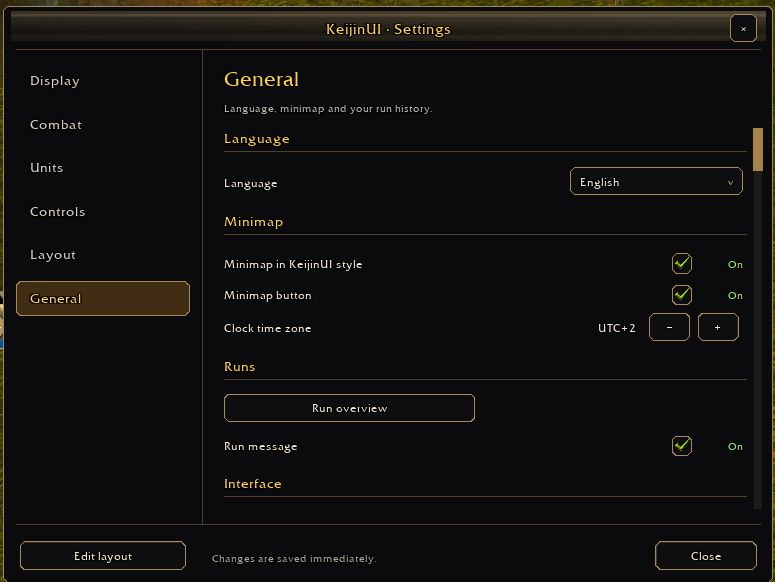
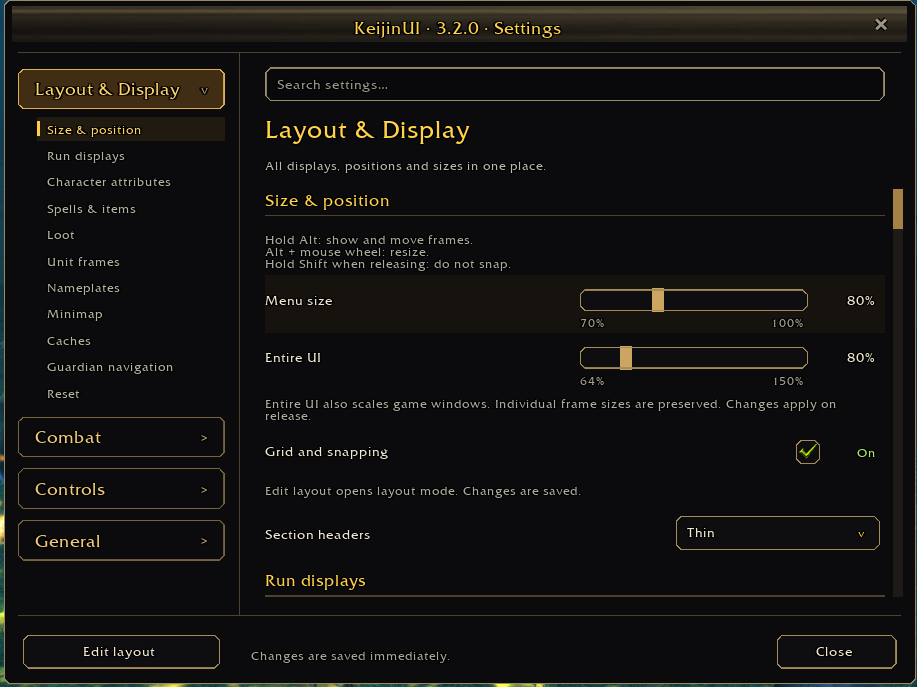
README: features and screenshots for 3.2
New in-game screenshots in English (overview, layout mode, settings with
search, minimap with guardian skulls) and updated feature lists in
English and German.

diff --git a/README.md b/README.md
@@ -13,24 +13,20 @@ English first, [Deutsch below](#deutsch).
 
 KeijinUI replaces the stock Azeroth Survivors HUD with one interface in a single visual style:
 
-* Run overview with zone, run clock, progress and boss schedule (boss time and run time), below it the guardian lairs of the map (asleep, fighting, back in, due)
-* Run statistics: elites, guardians and bosses defeated, damage taken, effective healing, gold earned; a counter row with the gold still missing for the next cache (green, yellow, red)
-* Pace: kill progress and recent DPS compared with your earlier matching runs at the same run time (green, yellow, red; on by default, switchable)
-* Damage meter with total and DPS per ability, list of the biggest critical hits
-* Player and target frames with round portrait and joined health bar, square minimap, action bar with ranks and cooldowns
-* Build overview with spells, jewelry and a build tip
-* Encounter bars for bosses, elites and rares, modern nameplates, scrolling combat text with spell icons
-* Loot notice, achievement popup and one chat window in the same frame style
-* Settings window with a side navigation (Display, Combat, Units, Controls, Layout, General), checkboxes, a live combat text preview, layout mode with grid and snapping, a ready made default layout
-* Optional cursor ring and optional character attributes (both off by default)
-* Class resources: rogue combo points, warlock soul shards and warrior rage; attached to the player or movable with Alt
-* Caches on the minimap with a pointer to the nearest one, optional screen arrow
-* Run history per zone, class and race (`/kui runs`): runs, wins, last time, fastest win and longest survival, plus a start message in chat for every run; a win is saved as a fixed snapshot the moment it happens, also when you leave straight to the menu
-* Minimap button **Kui**: left click opens the settings, right click the run history, drag it along the minimap edge
-* Original chamfered frames with warm bronze unit borders
+* **Run overview**: zone, run clock, boss schedule with boss time and run time, pace against your best matching runs, guardian lairs with status and small direction arrows
+* **Minimap** (game 0.102 or newer): a skull for every guardian lair, gold while a guardian holds it, orange with ! in combat, grey with x when empty; the game's red flag is hidden while the skulls are on. Caches with edge arrows, clock with time zone
+* **Run statistics** and a **meter** with Run, Boss and Healing tabs: totals and DPS/HPS per source, biggest critical hits, damage taken by source
+* **Character values**: up to 29 stats, your choice and order
+* **Player and target frames** with round portrait, debuffs and an optional 30 percent marker, action bar with ranks and cooldowns, build overview with spells, jewelry cooldowns and a build tip
+* **Kills, gold and caches** with lives and rerolls, XP bar with XP per minute and time to the next level, stored level ups button
+* Encounter bars with boss and guardian debuffs, modern nameplates, calmer floating damage numbers, optional healing and incoming damage text
+* Loot list in four modes with new and collected marks, achievement popup, one chat window with a copy button
+* **Settings** in four categories with a live search in English and German, whatever your UI language
+* **Layout mode**: hold Alt, drag and resize with the mouse wheel; windows snap to the grid, to each other and to the screen edges, and windows docked above the chat grow upward
+* Run history per zone, class and race (`/kui runs`), searchable jewelry diary, optional modules you can switch off completely
 * English and German interface
 
-![Layout mode with grid](screenshots/layout-mode.jpg)
+![Layout mode with grid, labels and snapping](screenshots/layout-mode.jpg)
 
 ### Installation
 
@@ -41,15 +37,15 @@ KeijinUI replaces the stock Azeroth Survivors HUD with one interface in a single
 
 ### First steps
 
-* `/kui` opens the settings window.
-* Hold **Alt** to see all frames, drag them with the left mouse button, Alt and mouse wheel changes the size.
+* `/kui` or a left click on the **Kui** minimap button opens the settings; type into the search field to find any option.
+* Hold **Alt** to see all frames, drag them with the left mouse button, Alt and mouse wheel changes the size. Shift while releasing places a frame without snapping.
 * `/kui lang de` switches to German, `/kui lang en` back to English (default).
 * `/kui reset` restores the default layout.
-* The **Kui** button on the minimap opens the settings (left click) and the run history (right click).
+* Right click on the **Kui** button opens the run history. Its position can be chosen under Layout & Display, Minimap.
 
-![Settings window, General page with the run overview](screenshots/settings.png)
+![Settings window with search](screenshots/settings.png)
 
-![Minimap button](screenshots/minimap-button.png)
+![Minimap with guardian skulls, caches and the Kui button](screenshots/minimap-skulls.png)
 
 All commands and details are in [KeijinUI/README.md](KeijinUI/README.md). The full version history is in [CHANGELOG.md](KeijinUI/CHANGELOG.md).
 
@@ -69,21 +65,17 @@ Eine vollständige, einheitliche Oberfläche für **Azeroth Survivors** (WoW 1.1
 
 KeijinUI ersetzt die Standardanzeigen von Azeroth Survivors durch eine Oberfläche in einem Stil:
 
-* Runübersicht mit Zone, Runuhr, Fortschritt und Bossplan (Bosszeit und Runzeit), darunter die Wächterhorte der Karte (schläft, im Kampf, zurück in, fällig)
-* Runstatistiken: Eliten, Wächter und Bosse besiegt, Schaden erlitten, effektive Heilung, Gold verdient; eine Zählerzeile mit dem noch fehlenden Gold für den nächsten Cache (grün, gelb, rot)
-* Pace: Killfortschritt und aktuelle DPS im Vergleich mit deinen früheren passenden Runs zur selben Runzeit (grün, gelb, rot; standardmäßig an, abschaltbar)
-* Schadensanzeige mit Gesamtschaden und DPS je Fähigkeit, Liste der größten kritischen Treffer
-* Spieler und Zielframe mit rundem Porträt und angeschlossenem Lebensbalken, eckige Minimap, Aktionsleiste mit Rängen und Abklingzeiten
-* Buildübersicht mit Zaubern, Schmuck und Buildtipp
-* Begegnungsbalken für Bosse, Eliten und Rares, moderne Namensplaketten, scrollender Kampftext mit Zaubersymbolen
-* Beutemeldung, Erfolgsmeldung und ein Chatfenster im gleichen Rahmenstil
-* Optionsfenster mit Seitennavigation (Anzeige, Kampf, Einheiten, Bedienung, Layout, Allgemein), Checkboxen, Livevorschau des Kampftexts, Layoutmodus mit Raster und Einrasten, fertiges Standardlayout
-* Optionaler Cursorring und optionale Charakterwerte (beide standardmäßig aus)
-* Klassenressourcen: Combopunkte, Seelensplitter und Wut; am Spieler befestigt oder mit Alt frei beweglich
-* Caches auf der Minimap mit Hinweis auf die nächste, optionaler Bildschirmpfeil
-* Rundenübersicht je Zone, Klasse und Volk (`/kui runs`): Runs, Siege, letzte Zeit, schnellster Sieg und längstes Überleben, dazu eine Startmeldung im Chat zu jedem Run; ein Sieg wird sofort als fester Snapshot gesichert, auch wenn du direkt ins Menü gehst
-* Minimapknopf **Kui**: Linksklick öffnet die Optionen, Rechtsklick die Rundenübersicht, am Minimaprand verschiebbar
-* Eigene abgeschrägte Rahmen mit warmen bronzefarbenen Unitkanten
+* **Runübersicht**: Zone, Runuhr, Bossplan mit Bosszeit und Runzeit, Pace im Vergleich mit deinen besten passenden Runs, Wächterhorte mit Status und kleinen Richtungspfeilen
+* **Minimap** (ab Spiel 0.102): ein Totenkopf für jeden Wächterhort, gold bei besetztem Hort, orange mit ! im Kampf, grau mit x bei leerem Hort; die rote Flagge des Spiels ist ausgeblendet, solange die Totenköpfe an sind. Caches mit Randpfeilen, Uhr mit Zeitzone
+* **Runstatistik** und **Meter** mit den Reitern Run, Boss und Heilung: Summen und DPS/HPS je Quelle, größte kritische Treffer, erlittener Schaden nach Quelle
+* **Charakterwerte**: bis zu 29 Werte, Auswahl und Reihenfolge frei
+* **Spieler und Zielframe** mit rundem Porträt, Debuffs und optionaler 30 Prozent Markierung, Aktionsleiste mit Rängen und Abklingzeiten, Buildübersicht mit Zaubern, Schmuckcooldowns und Buildtipp
+* **Kills, Gold und Caches** mit Leben und Rerolls, EP Leiste mit EP pro Minute und Zeit bis zum nächsten Level, Knopf für gespeicherte Levelaufstiege
+* Begegnungsbalken mit Debuffs von Bossen und Wächtern, moderne Namensplaketten, ruhigere Schadenszahlen, optionaler Heil und Schadenstext am Spieler
+* Beuteliste in vier Modi mit Markierung neu und gesammelt, Erfolgsmeldung, ein Chatfenster mit Kopierknopf
+* **Einstellungen** in vier Kategorien mit Livesuche auf Deutsch und Englisch, unabhängig von der UI Sprache
+* **Layoutmodus**: Alt halten, ziehen und mit dem Mausrad skalieren; Fenster rasten am Raster, aneinander und am Bildschirmrand ein, über dem Chat angedockte Fenster wachsen nach oben
+* Rundenübersicht je Zone, Klasse und Volk (`/kui runs`), durchsuchbares Schmucktagebuch, optionale Module, die sich ganz abschalten lassen
 * Oberfläche auf Englisch und Deutsch
 
 ### Installation
@@ -95,11 +87,11 @@ KeijinUI ersetzt die Standardanzeigen von Azeroth Survivors durch eine Oberfläc
 
 ### Erste Schritte
 
-* `/kui` öffnet das Optionsfenster.
-* **Alt** halten zeigt alle Rahmen, mit der linken Maustaste verschieben, Alt und Mausrad ändern die Größe.
+* `/kui` oder ein Linksklick auf den Minimapknopf **Kui** öffnet die Einstellungen; im Suchfeld findest du jede Option.
+* **Alt** halten zeigt alle Rahmen, mit der linken Maustaste verschieben, Alt und Mausrad ändern die Größe. Shift beim Loslassen platziert ohne Einrasten.
 * `/kui lang de` stellt auf Deutsch um, `/kui lang en` zurück auf Englisch (Standard).
 * `/kui reset` stellt das Standardlayout wieder her.
-* Der Knopf **Kui** an der Minimap öffnet die Optionen (Linksklick) und die Rundenübersicht (Rechtsklick).
+* Rechtsklick auf **Kui** öffnet die Rundenübersicht. Die Position des Knopfs lässt sich unter Layout & Anzeige, Minimap wählen.
 
 Alle Befehle und Details stehen in [KeijinUI/README.md](KeijinUI/README.md). Der vollständige Versionsverlauf steht in [CHANGELOG.md](KeijinUI/CHANGELOG.md).
 
